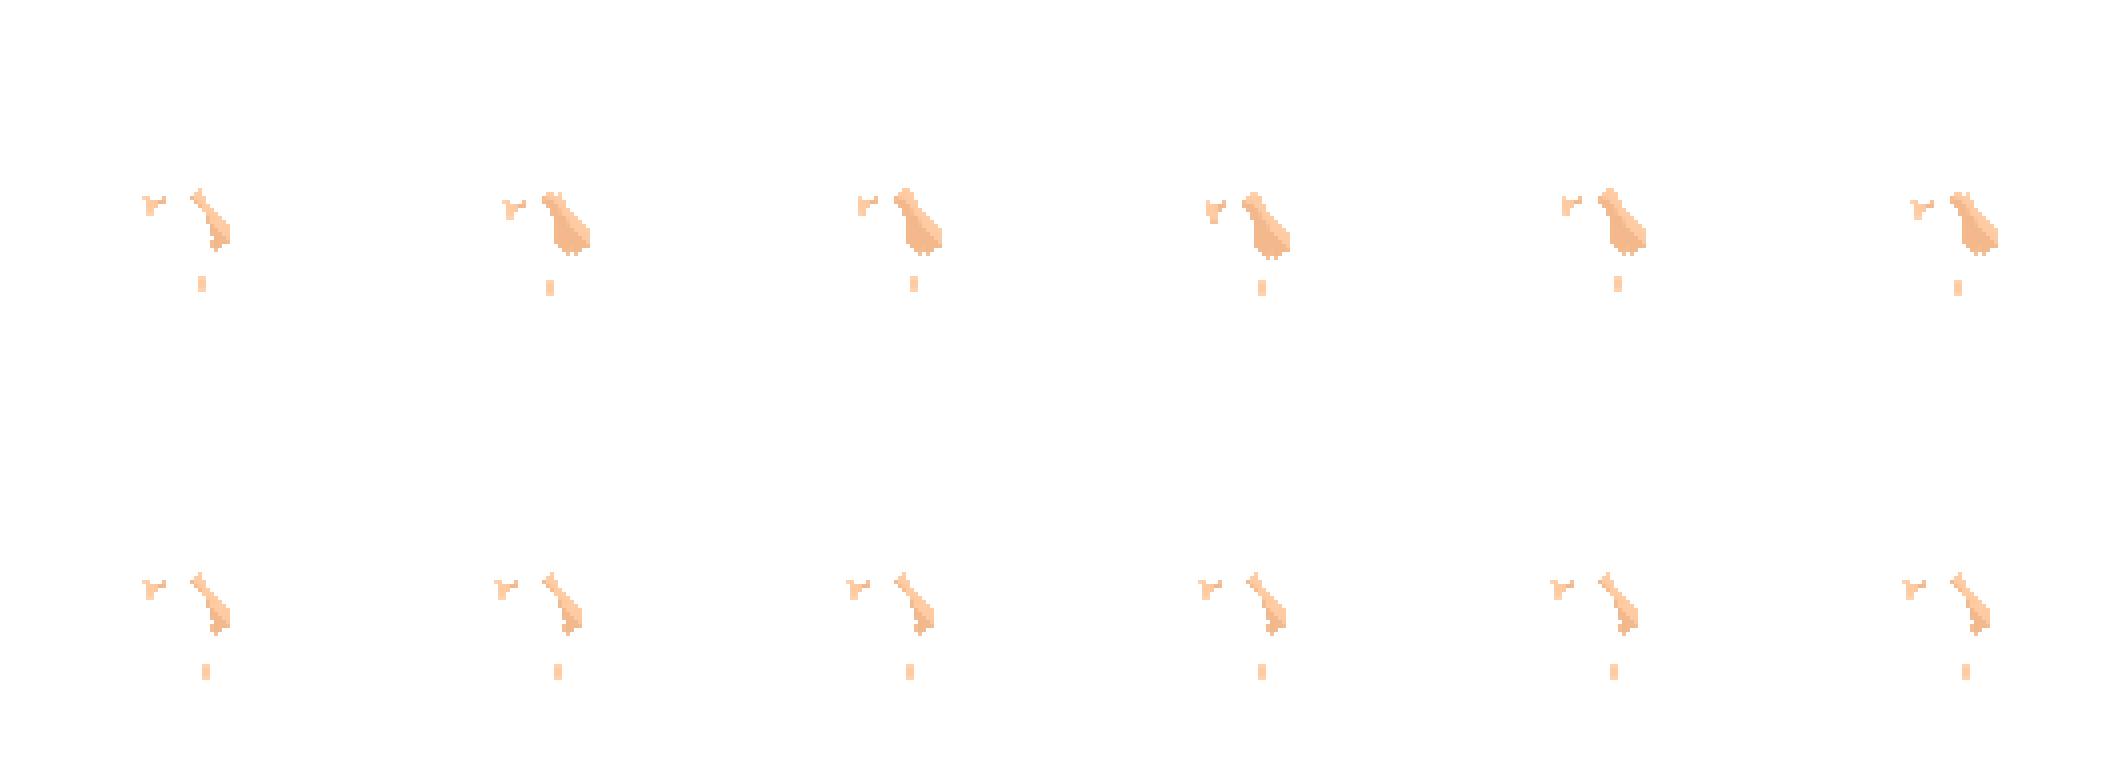
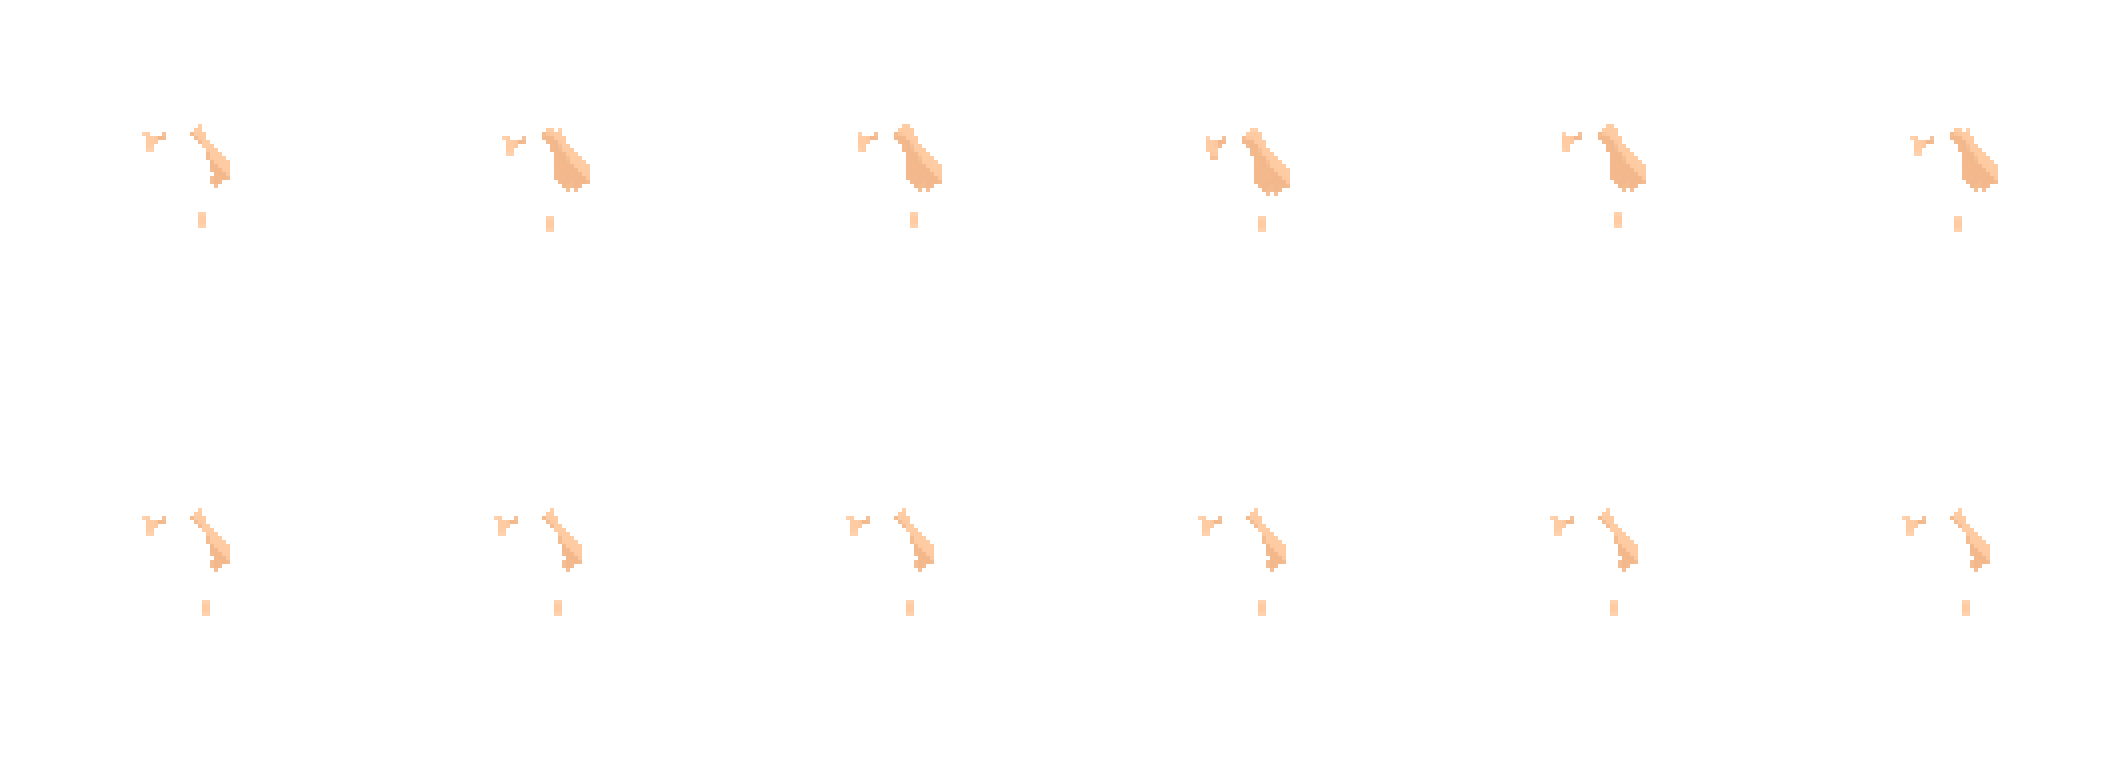
🐰 롭이어 토끼를 열여섯 도트 올림
귀가 어깨까지 내려와 있었다 (칸 안 y 188~295 · 머리는 112~215).
귀뿌리가 머리 꼭대기에 오도록 **64픽셀(열여섯 도트)** 올렸다 — y 124~231.
0 · 32 · 48 · 56 · 64 · 72 를 다 그려 놓고 보고 골랐다.
4의 배수라 도트 눈금은 그대로다.

· tools-acc-sharp.py 를 같이 넣어 둔다 — 악세를 또렷하게 만들고 자리를
  잡는 그 각본이다. 칸마다 따로 올리고 내릴 것은 FIX 표 한 줄이면 된다.

Claude-Session: https://claude.ai/code/session_01756qBPpCuB22evHBmdXYTY

diff --git a/tools-acc-sharp.py b/tools-acc-sharp.py
@@ -1,0 +1,60 @@
+# 악세를 **도트 눈금에 맞춰** 또렷하게 만든다.
+#
+#   받은 그림은 칸 크기는 맞는데 **한 픽셀 단위**로 그려져 있었다.
+#   사람 그림은 도트 한 칸이 4픽셀이라, 나란히 놓으면 악세만 잘게 흩어져
+#   흐릿해 보인다. 그래서 4x4 덩어리마다 한 색으로 눌러 준다.
+#
+#   눈금의 자리까지 맞춘다 — 사람 그림은 가로로 x≡2(mod 4), 세로로
+#   y≡0(mod 4) 에서 색이 바뀐다. 옮길 때 가로 +104 · 세로 +106 이므로
+#   **원본에서는 (2,2) 에서 시작하는 눈금**이어야 맞아 떨어진다.
+from PIL import Image
+import numpy as np, os, json
+from collections import Counter
+
+DX, DY = 104, 106
+
+# ★ 그림 자체가 어긋나게 그려져 온 것 — 칸마다 따로 올리고 내린다.
+#   ac14 롭이어 토끼 : 귀가 어깨까지 내려와 있었다. 귀뿌리가 머리 꼭대기에
+#   오도록 **열여섯 도트(64픽셀)** 올린다.
+FIX = { 'ac14': (0, -64) }
+PX, PY = 2, 2           # 원본 눈금 시작 자리
+KEEP = 0.50             # 덩어리의 절반은 차야 남긴다 (덜 차면 버린다 — 안 그러면 얇은 선이 뭉개져 뭉텅이가 된다)
+
+def snap(im):
+    a = np.asarray(im).astype(np.int32)
+    h, w, _ = a.shape
+    out = np.zeros_like(a)
+    for by in range(-PY, h, 4):
+        for bx in range(-PX, w, 4):
+            y0, y1 = max(0, by), min(h, by + 4)
+            x0, x1 = max(0, bx), min(w, bx + 4)
+            if y0 >= y1 or x0 >= x1: continue
+            blk = a[y0:y1, x0:x1].reshape(-1, 4)
+            cov = blk[:, 3].mean() / 255.0
+            if cov < KEEP: continue
+            on = blk[blk[:, 3] >= 64]
+            if not len(on): on = blk[blk[:, 3] > 0]
+            if not len(on): continue
+            c = Counter(map(tuple, on[:, :3].tolist()))
+            rgb = c.most_common(1)[0][0]
+            al = int(on[:, 3].max())          # 일부러 덜 비치게 그린 것은 그대로 둔다
+            out[y0:y1, x0:x1] = (rgb[0], rgb[1], rgb[2], al)
+    return Image.fromarray(out.astype(np.uint8))
+
+os.makedirs('out2', exist_ok=True)
+names = sorted(f[:-4] for f in os.listdir('raw') if f.endswith('.png'))
+for k, n in enumerate(names):
+    pid = 'ac%02d' % (k + 1)
+    if pid == 'ac21': continue                 # 베일은 새 그림(dot/veil.png)을 쓴다
+    im = Image.open(os.path.join('raw', n + '.png')).convert('RGBA')
+    if im.size == (3456, 2048):
+        im = Image.fromarray(np.asarray(im)[0::4, 0::4])
+    im = snap(im)
+    out = Image.new('RGBA', (2112, 768), (0, 0, 0, 0))
+    for r in range(2):
+        for c in range(6):
+            fx, fy = FIX.get(pid, (0, 0))
+            out.paste(im.crop((c*144, r*256, (c+1)*144, (r+1)*256)),
+                      (c*352 + DX + fx, r*384 + DY + fy))
+    out.save('out2/' + pid + '.png')
+print('또렷하게 만든 장', len(os.listdir('out2')))
